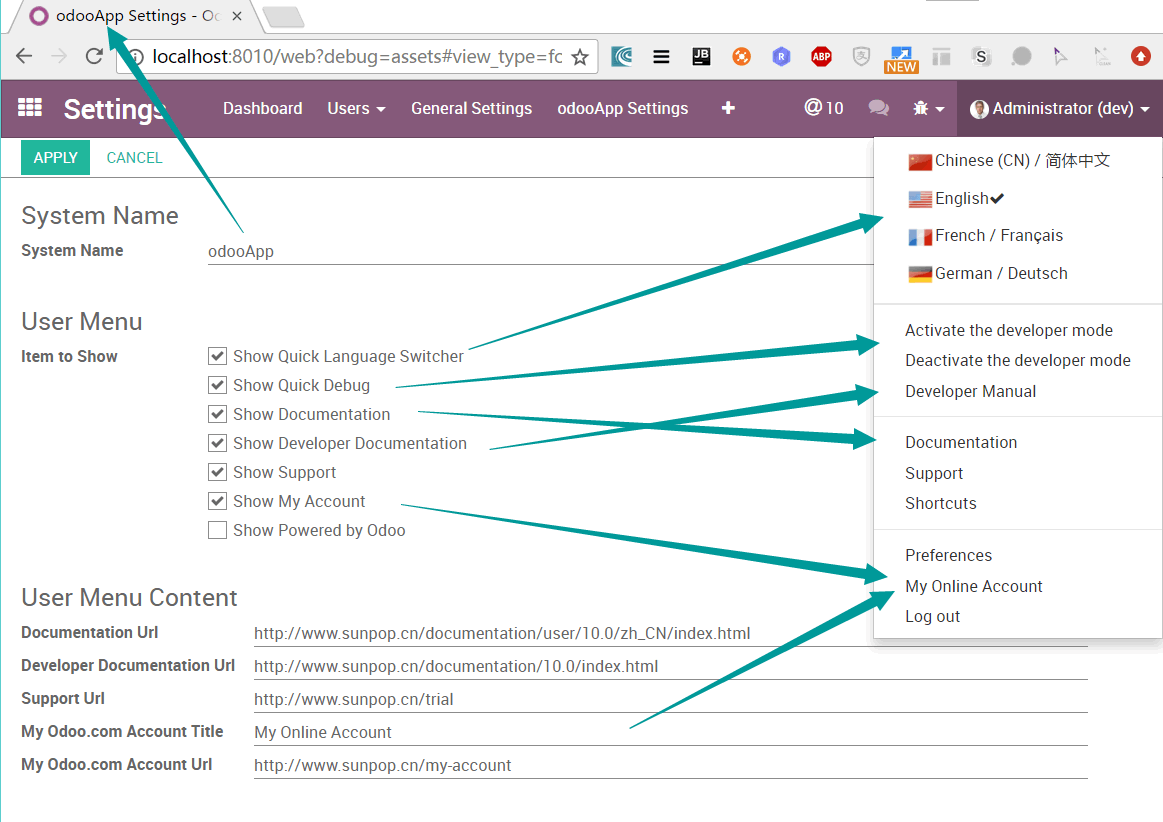
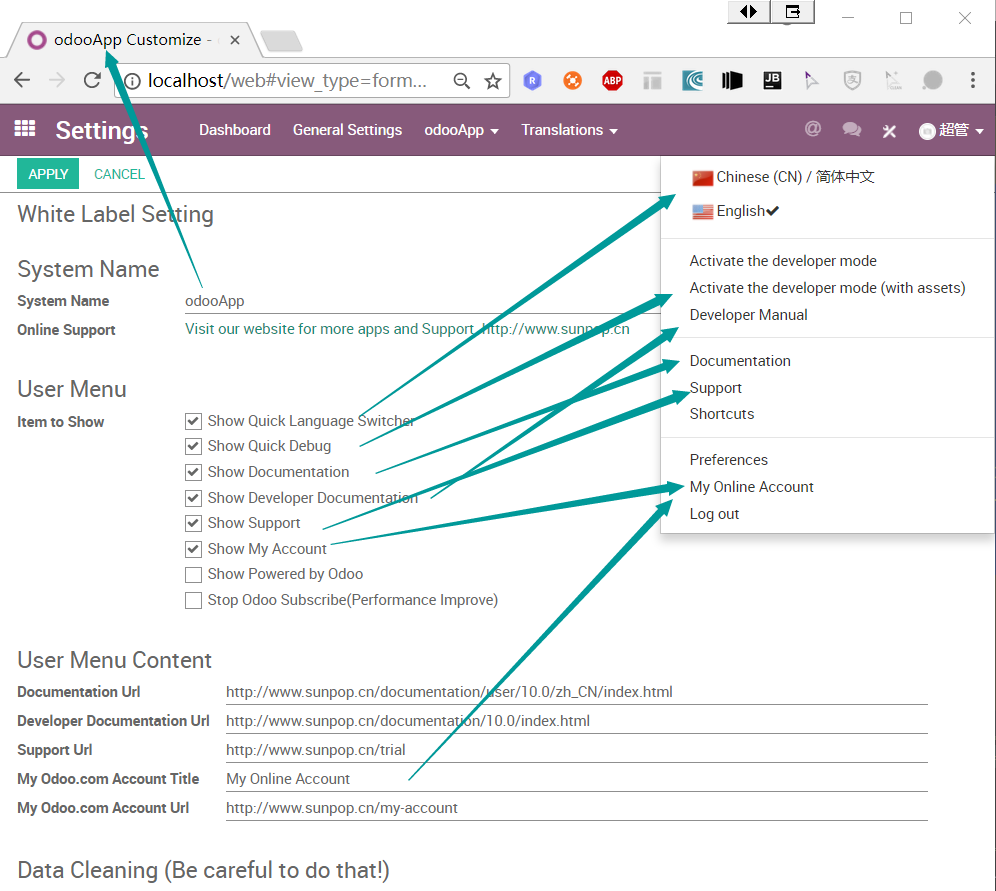
update app_customize, add auto_sub

Changed region(s): [[0.0, 0.0, 1.0, 1.0], [0.0, 0.6995, 0.9337, 1.0], [0.5291, 0.6995, 0.5602, 0.7299]]

diff --git a/app_odoo_customize/static/description/index.html b/app_odoo_customize/static/description/index.html
@@ -7,23 +7,23 @@
                     Online Documentation Access,Quick Data Clear. </p>
                 <br>
                 <ul>
-                    <li>1.Deletes Odoo label in footer</li>
-                    <li>2.Replaces "Odoo" in Windows title</li>
-                    <li>3.Customize Documentation, Support, About links and title in usermenu</li>
-                    <li>4.Adds "Developer mode" link to the top right-hand User Menu.</li>
-                    <li>5.Adds Quick Language Switcher to the top right-hand User Menu.</li>
-                    <li>6.Adds Country flags to the top right-hand User Menu.</li>
-                    <li>7.Adds English and Chinese user documentation access to the top right-hand User Menu.</li>
-                    <li>8.Adds developer documentation access to the top right-hand User Menu.</li>
-                    <li>9.Customize "My odoo.com account" button</li>
-                    <li>10.Standalone setting panel, easy to setup.</li>
-                    <li>11.Provide 236 country flags.</li>
-                    <li>12.Multi-language Support.</li>
-                    <li>13.Change Powered by Odoo in login screen.(Please change '../views/app_odoo_customize_view.xml' #15)</li>
-                    <li>14.Quick delete test data in Apps: Sales/POS/Purchase/MRP/Inventory/Accounting/Base Models.</li>
-                    <li>15.Reset All the Sequence to beginning of 1: SO/PO/MO/Invoice...</li>
-                    <li>16.Fix odoo reload module translation bug while enable english language
-</li>
+                    <li>1. Deletes Odoo label in footer</li>
+                    <li>2. Replaces "Odoo" in Windows title</li>
+                    <li>3. Customize Documentation, Support, About links and title in usermenu</li>
+                    <li>4. Adds "Developer mode" link to the top right-hand User Menu.</li>
+                    <li>5. Adds Quick Language Switcher to the top right-hand User Menu.</li>
+                    <li>6. Adds Country flags to the top right-hand User Menu.</li>
+                    <li>7. Adds English and Chinese user documentation access to the top right-hand User Menu.</li>
+                    <li>8. Adds developer documentation access to the top right-hand User Menu.</li>
+                    <li>9. Customize "My odoo.com account" button</li>
+                    <li>10. Standalone setting panel, easy to setup.</li>
+                    <li>11. Provide 236 country flags.</li>
+                    <li>12. Multi-language Support.</li>
+                    <li>13. Change Powered by Odoo in login screen.(Please change '../views/app_odoo_customize_view.xml' #15)</li>
+                    <li>14. Quick delete test data in Apps: Sales/POS/Purchase/MRP/Inventory/Accounting/Base Models.</li>
+                    <li>15. Reset All the Sequence to beginning of 1: SO/PO/MO/Invoice...</li>
+                    <li>16. Fix odoo reload module translation bug while enable english language</li>
+                    <li>17. Stop Odoo Auto Subscribe(Performance Improve)</li>
                 </ul>
                 <p>
                 This module can help to white label the Odoo.

diff --git a/app_odoo_customize/models/app_theme_config_settings.py b/app_odoo_customize/models/app_theme_config_settings.py
@@ -24,6 +24,7 @@ class AppThemeConfigSettings(models.TransientModel):
     app_show_enterprise = fields.Boolean('Show Enterprise Tag', help=u"Uncheck to hide the Enterprise tag")
     app_show_share = fields.Boolean('Show Share Dashboard', help=u"Uncheck to hide the Odoo Share Dashboard")
     app_show_poweredby = fields.Boolean('Show Powered by Odoo', help=u"Uncheck to hide the Powered by text")
+    app_stop_subscribe = fields.Boolean('Stop Odoo Subscribe(Performance Improve)', help=u"Check to stop Odoo Subscribe function")
 
     app_documentation_url = fields.Char('Documentation Url')
     app_documentation_dev_url = fields.Char('Developer Documentation Url')
@@ -45,6 +46,7 @@ class AppThemeConfigSettings(models.TransientModel):
         app_show_enterprise = True if ir_config.get_param('app_show_enterprise') == "True" else False
         app_show_share = True if ir_config.get_param('app_show_share') == "True" else False
         app_show_poweredby = True if ir_config.get_param('app_show_poweredby') == "True" else False
+        app_stop_subscribe = True if ir_config.get_param('app_stop_subscribe') == "True" else False
 
         app_documentation_url = ir_config.get_param('app_documentation_url',
                                                     default='http://www.sunpop.cn/documentation/user/10.0/en/index.html')
@@ -64,6 +66,8 @@ class AppThemeConfigSettings(models.TransientModel):
             app_show_enterprise=app_show_enterprise,
             app_show_share=app_show_share,
             app_show_poweredby=app_show_poweredby,
+            app_stop_subscribe=app_stop_subscribe,
+            
             app_documentation_url=app_documentation_url,
             app_documentation_dev_url=app_documentation_dev_url,
             app_support_url=app_support_url,
@@ -85,6 +89,7 @@ class AppThemeConfigSettings(models.TransientModel):
         ir_config.set_param("app_show_enterprise", self.app_show_enterprise or "False")
         ir_config.set_param("app_show_share", self.app_show_share or "False")
         ir_config.set_param("app_show_poweredby", self.app_show_poweredby or "False")
+        ir_config.set_param("app_stop_subscribe", self.app_stop_subscribe or "False")
 
         ir_config.set_param("app_documentation_url",
                             self.app_documentation_url or "http://www.sunpop.cn/documentation/user/10.0/en/index.html")

diff --git a/app_odoo_customize/models/mail_follower.py b/app_odoo_customize/models/mail_follower.py
@@ -1,0 +1,39 @@
+# -*- coding: utf-8 -*-
+# Copyright 2017 Jarvis (www.odoomod.com)
+# License LGPL-3.0 or later (http://www.gnu.org/licenses/lgpl.html).
+
+from odoo import api, fields, models, _
+
+
+class MailThread(models.AbstractModel):
+    _inherit = "mail.thread"
+
+    @api.multi
+    def message_subscribe(self, partner_ids=None, channel_ids=None, subtype_ids=None, force=True):
+        """ 停用订阅功能. """
+        ir_config = self.env['ir.config_parameter']
+        app_stop_subscribe = True if ir_config.get_param('app_stop_subscribe') == "True" else False
+        if app_stop_subscribe:
+            return
+        else:
+            return super(MailThread, self).message_subscribe(partner_ids, channel_ids, subtype_ids, force)
+
+    @api.multi
+    def message_auto_subscribe(self, updated_fields, values=None):
+        """ 停用订阅功能. """
+        ir_config = self.env['ir.config_parameter']
+        app_stop_subscribe = True if ir_config.get_param('app_stop_subscribe') == "True" else False
+        if app_stop_subscribe:
+            return
+        else:
+            return super(MailThread, self).message_auto_subscribe(updated_fields, values)
+
+    @api.multi
+    def _message_auto_subscribe_notify(self, partner_ids):
+        """ 停用订阅功能. """
+        ir_config = self.env['ir.config_parameter']
+        app_stop_subscribe = True if ir_config.get_param('app_stop_subscribe') == "True" else False
+        if app_stop_subscribe:
+            return
+        else:
+            return super(MailThread, self)._message_auto_subscribe_notify(partner_ids)

diff --git a/app_odoo_customize/models/mail_thread.py b/app_odoo_customize/models/mail_thread.py
@@ -1,0 +1,39 @@
+# -*- coding: utf-8 -*-
+# Copyright 2017 Jarvis (www.odoomod.com)
+# License LGPL-3.0 or later (http://www.gnu.org/licenses/lgpl.html).
+
+from odoo import api, fields, models, _
+
+
+class MailThread(models.AbstractModel):
+    _inherit = "mail.thread"
+
+    @api.multi
+    def message_subscribe(self, partner_ids=None, channel_ids=None, subtype_ids=None, force=True):
+        """ 停用订阅功能. """
+        ir_config = self.env['ir.config_parameter']
+        app_stop_subscribe = True if ir_config.get_param('app_stop_subscribe') == "True" else False
+        if app_stop_subscribe:
+            return
+        else:
+            return super(MailThread, self).message_subscribe(partner_ids, channel_ids, subtype_ids, force)
+
+    @api.multi
+    def message_auto_subscribe(self, updated_fields, values=None):
+        """ 停用订阅功能. """
+        ir_config = self.env['ir.config_parameter']
+        app_stop_subscribe = True if ir_config.get_param('app_stop_subscribe') == "True" else False
+        if app_stop_subscribe:
+            return
+        else:
+            return super(MailThread, self).message_auto_subscribe(updated_fields, values)
+
+    @api.multi
+    def _message_auto_subscribe_notify(self, partner_ids):
+        """ 停用订阅功能. """
+        ir_config = self.env['ir.config_parameter']
+        app_stop_subscribe = True if ir_config.get_param('app_stop_subscribe') == "True" else False
+        if app_stop_subscribe:
+            return
+        else:
+            return super(MailThread, self)._message_auto_subscribe_notify(partner_ids)

diff --git a/app_odoo_customize/__openerp__.py b/app_odoo_customize/__openerp__.py
@@ -44,6 +44,8 @@ You can config odoo, make it look like your own platform.
 13. Change Powered by Odoo in login screen.(Please change '../views/app_odoo_customize_view.xml' #15)
 14. Quick delete test data in Apps: Sales/POS/Purchase/MRP/Inventory/Accounting/Message/Workflow etc.
 15. Reset All the Sequence to beginning of 1: SO/PO/MO/Invoice...
+16. Fix odoo reload module translation bug while enable english language
+17. Stop Odoo Auto Subscribe(Performance Improve)
 
 This module can help to white label the Odoo.
 Also helpful for training and support for your odoo end-user.
@@ -51,7 +53,7 @@ The user can get the help document just by one click.
 
     """,
     'images': ['static/description/banner.png'],
-    'depends': ['web'],
+    'depends': ['web','mail'],
     'data': [
         'views/app_odoo_customize_view.xml',
         'views/app_theme_config_settings_view.xml',

diff --git a/app_odoo_customize/models/__init__.py b/app_odoo_customize/models/__init__.py
@@ -3,3 +3,4 @@
 import ir_ui_view
 import app_theme_config_settings
 import base_language_install
+import mail_thread

diff --git a/app_odoo_customize/readme.md b/app_odoo_customize/readme.md
@@ -18,6 +18,7 @@ You can config odoo, make it look like your own platform.
 14. Quick delete test data in Apps: Sales/POS/Purchase/MRP/Inventory/Accounting/Message/Workflow etc.
 15. Reset All the Sequence to beginning of 1: SO/PO/MO/Invoice...
 16. Fix odoo reload module translation bug while enable english language
+17. Stop Odoo Auto Subscribe(Performance Improve)
 This module can help to white label the Odoo.
 Also helpful for training and support for your odoo end-user.
 The user can get the help document just by one click.
@@ -42,7 +43,8 @@ http://www.sunpop.cn
 13. 自定义登陆界面中的 Powered by Odoo
 14. 快速删除测试数据，支持模块包括：销售/POS门店/采购/生产/库存/会计/消息与工作流等.
 15. 将各类单据的序号重置，从1开始，包括：SO/PO/MO/Invoice 等
-16. 修复odoo启用英文后模块显示的Bug
+16. 修复odoo启用英文后模块不显示中文的Bug
+17. 可停用odoo自动订阅功能，避免“同样对象关注2次”bug，同时提升性能
 
 使用方法：将解压后的 app_odoo_customize 放到 odoo的 addons目录下，激活开发者模式，应用-->更新应用列表，
 找到 "App odoo Customize"模块，安装即可。
